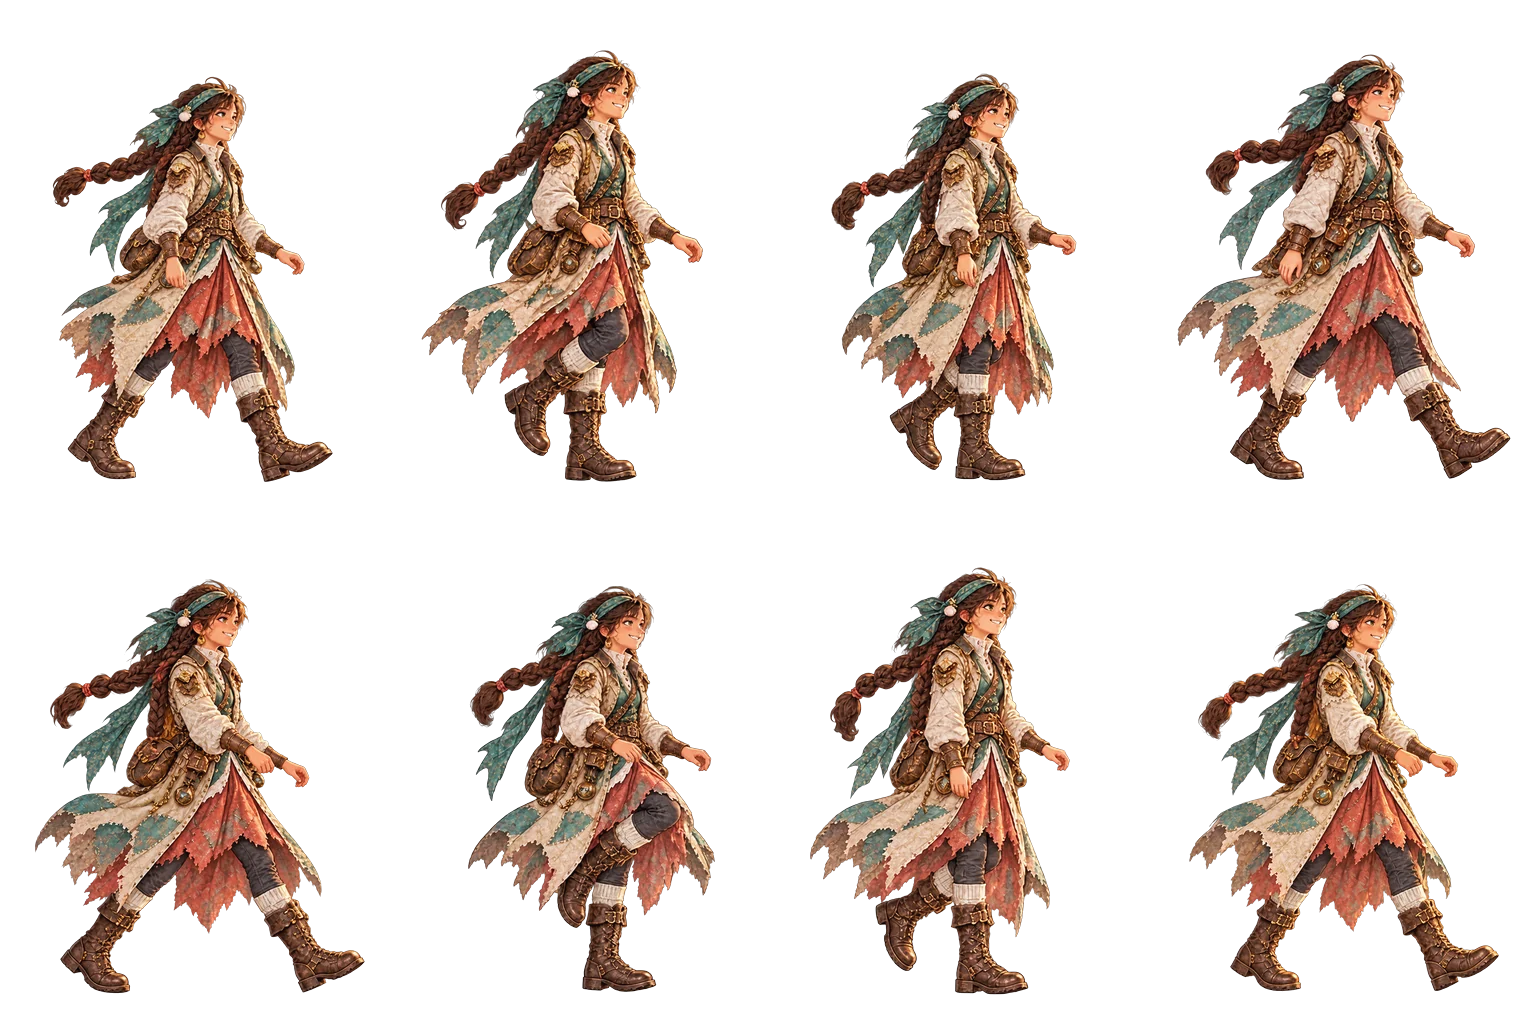
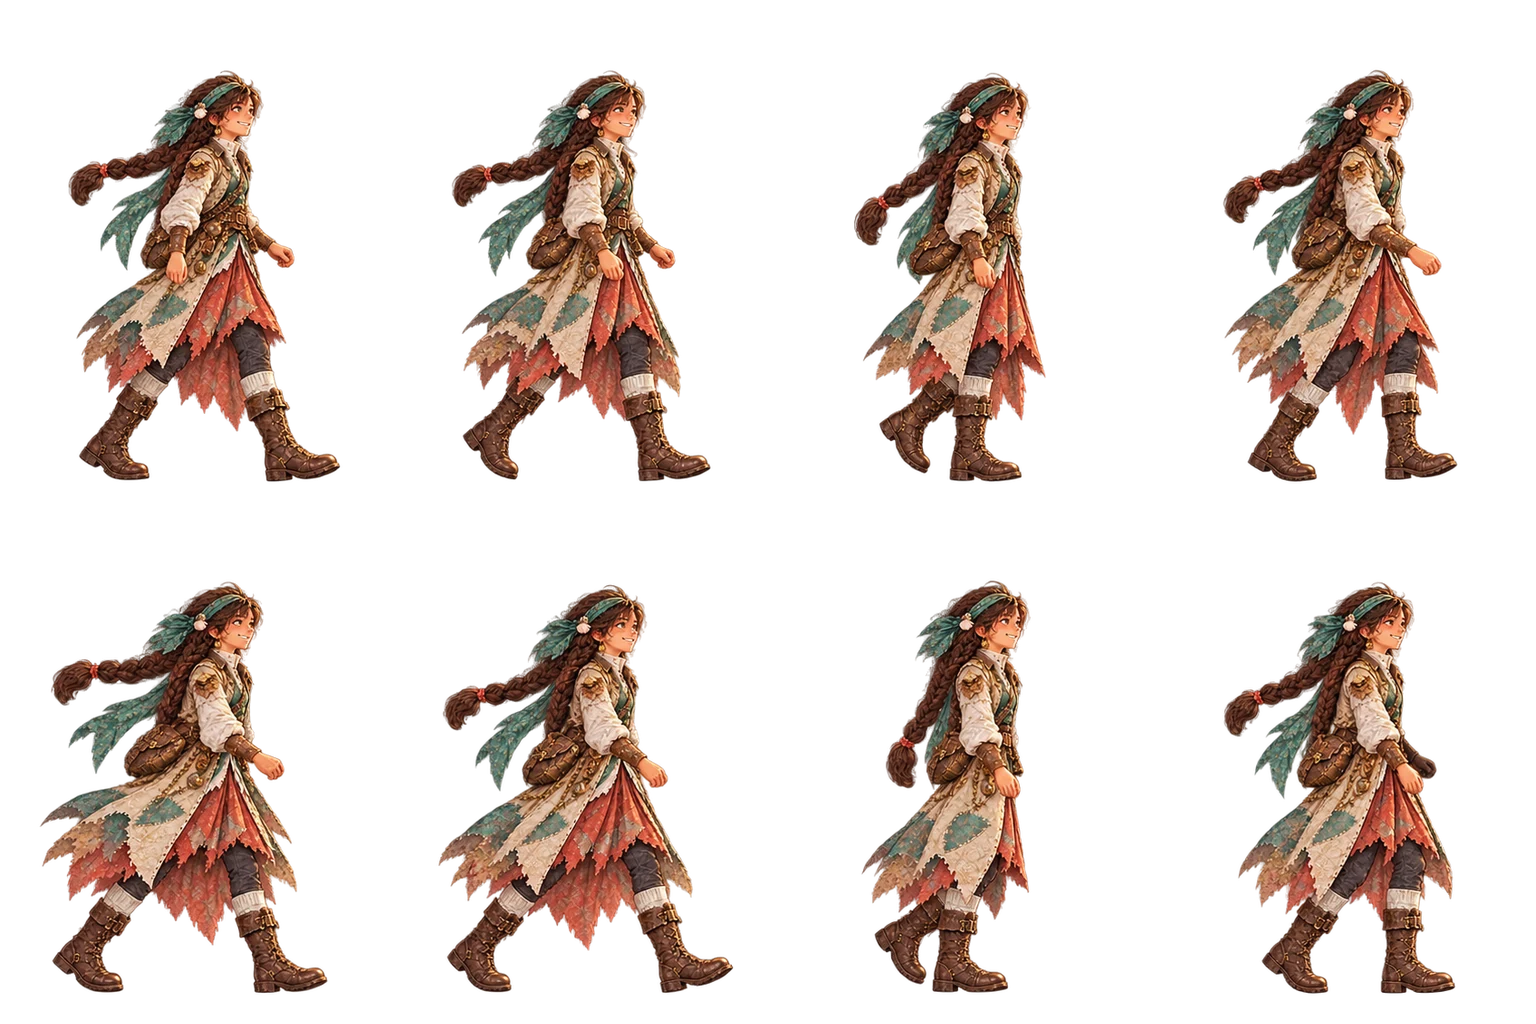
Steady walk cycles for all five heroes, painted as one sheet over a pose guide
Each walk_bare sheet is now one Codex painting of all eight frames over
the walk_guide.py mannequin, fitted by walk_sheet.py, so the look no
longer drifts frame to frame. Cade's far leg stays armored throughout.

Claude-Session: https://claude.ai/code/session_01JG9XVx7ekEzCTp7T6JyNCj

diff --git a/art/waves/wave-12-forged-weapons.md b/art/waves/wave-12-forged-weapons.md
@@ -155,3 +155,4 @@ Wren's and Maren's talking poses (`field.webp`) keep their weapons: the game onl
 - The walks' upper bodies stay within 4 px of the old walks frame by frame, so `align_walks.py` wasn't rerun.
 - 18 Oct, the parent's playtest: Cade's empty-handed walk kept his free hand up in a fist where the sword had been ("a bro fist the whole time"). Each `walk_bare` cell was edited again with Codex so that arm hangs and swings low with the hand loosely open (`tools/art/walk-arms.py`; raw cells in `art/raw/wave-12/<hero>_walk_arms/`). Legs, shield, size and feet unchanged (feet within 1 px). Wren's walk had the same raised fist (her gloved arm, not the brass one) and got the same pass at the parent's word. Her brass arm and the coat at that shoulder then flickered (sleeved in some frames, sleeveless in others, glowing in some), so seven cells were edited once more to match frame 7's arm.
 - 17 Oct, Section C: all ten battle sheets and the ten icons redone (`tools/art/wave12-c.py`, `wave12-icons.py`), each cell checked with a red/cyan overlay (`wave12-overlay.py`). Wren's, Knox's and Tamsin's first gold step 1 looked too close to their old weapons at 128 px, so it was pushed further (bigger, brighter gold, no brown). Section C fits run without the feet snap (`WAVE12_NOSNAP`), because a big blade's glow below the boots dragged heroes up; feet were checked by eye. A weapon reaching the cell edge fades out over 12 px (Cade's step 1 victory, step 2 attack). Retries are listed in `art/review/wave-12.md`.
+- 18 Oct, the parent: the walks were jittery on every hero, because each frame was painted on its own and the look drifted between them. All five `walk_bare` sheets were then repainted the other way: Codex paints all eight frames in ONE image, over a mannequin walk drawn by `tools/art/walk_guide.py` (near limbs light, far limbs dark; `--shield` for Cade), with the hero's stand and the old sheet as references. `tools/art/walk_sheet.py` cleans the result, stands each frame on the feet line, matches the old sheet's height and measures the stride. Cade's first one-sheet try still twitched (his far leg swapped between plain cloth and armor), so his brief says both legs wear the same armor in every frame. Briefs and guides: `/mnt/project-files/cade-walk-sheet/` and `/mnt/project-files/walk-sheets/`.
